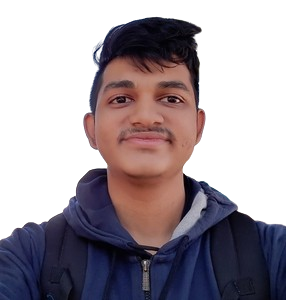
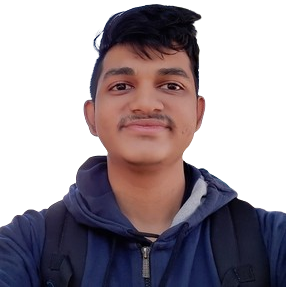
resize and design changes

Changed region(s): [[0.0, 0.0, 1.0, 0.9199], [0.951, 0.7805, 0.979, 0.8084]]

diff --git a/src/components/contact/Contact.jsx b/src/components/contact/Contact.jsx
@@ -86,37 +86,14 @@ const Contact = () => {
           whileInView={{ opacity: 0 }}
           transition={{ delay: 3, duration: 1 }}
         >
-          <svg width="450px" height="450px" viewBox="0 0 32.666 32.666">
-            <motion.path
-              strokeWidth={0.3}
-              fill="none"
-              initial={{ pathLength: 0 }}
-              animate={ isInView && { pathLength: 1 }}
-              transition={{ duration: 3 }}
-              d="M28.189,16.504h-1.666c0-5.437-4.422-9.858-9.856-9.858l-0.001-1.664C23.021,4.979,28.189,10.149,28.189,16.504z
-            M16.666,7.856L16.665,9.52c3.853,0,6.983,3.133,6.981,6.983l1.666-0.001C25.312,11.735,21.436,7.856,16.666,7.856z M16.333,0
-            C7.326,0,0,7.326,0,16.334c0,9.006,7.326,16.332,16.333,16.332c0.557,0,1.007-0.45,1.007-1.006c0-0.559-0.45-1.01-1.007-1.01
-            c-7.896,0-14.318-6.424-14.318-14.316c0-7.896,6.422-14.319,14.318-14.319c7.896,0,14.317,6.424,14.317,14.319
-            c0,3.299-1.756,6.568-4.269,7.954c-0.913,0.502-1.903,0.751-2.959,0.761c0.634-0.377,1.183-0.887,1.591-1.529
-            c0.08-0.121,0.186-0.228,0.238-0.359c0.328-0.789,0.357-1.684,0.555-2.518c0.243-1.064-4.658-3.143-5.084-1.814
-            c-0.154,0.492-0.39,2.048-0.699,2.458c-0.275,0.366-0.953,0.192-1.377-0.168c-1.117-0.952-2.364-2.351-3.458-3.457l0.002-0.001
-            c-0.028-0.029-0.062-0.061-0.092-0.092c-0.031-0.029-0.062-0.062-0.093-0.092v0.002c-1.106-1.096-2.506-2.34-3.457-3.459
-            c-0.36-0.424-0.534-1.102-0.168-1.377c0.41-0.311,1.966-0.543,2.458-0.699c1.326-0.424-0.75-5.328-1.816-5.084
-            c-0.832,0.195-1.727,0.227-2.516,0.553c-0.134,0.057-0.238,0.16-0.359,0.24c-2.799,1.774-3.16,6.082-0.428,9.292
-            c1.041,1.228,2.127,2.416,3.245,3.576l-0.006,0.004c0.031,0.031,0.063,0.06,0.095,0.09c0.03,0.031,0.059,0.062,0.088,0.095
-            l0.006-0.006c1.16,1.118,2.535,2.765,4.769,4.255c4.703,3.141,8.312,2.264,10.438,1.098c3.67-2.021,5.312-6.338,5.312-9.719
-            C32.666,7.326,25.339,0,16.333,0z"
-            />
-          </svg>
+          
         </motion.div>
 
 				
-        {success?"":<motion.form
+        {success?"":<form
           ref = {formRef}
           onSubmit={sendEmail}
-          initial={{ opacity: 0 }}
-          whileInView={{ opacity: 1 }}
-          transition={{ delay: 4, duration: 1 }}
+          
         >
           <input type="text" required placeholder="Name" name="name"/>
           <input type="email" required placeholder="Email" name="email"/>
@@ -124,7 +101,7 @@ const Contact = () => {
           <button type = "submit">Submit</button>
           
           {success}
-        </motion.form>}
+        </form>}
 
       </div>
     </motion.div>

diff --git a/src/components/hero/hero.scss b/src/components/hero/hero.scss
@@ -50,7 +50,7 @@
       flex-direction: column;
       justify-content: center;
       gap: 40px;
-			margin-top: 50px;
+			margin-top: 0px;
 
 			.khush-name{
 				z-index: 100000;
@@ -137,8 +137,8 @@
     position: absolute;
 		top: 0;
     right: 0;
-		z-index:0;
-		margin-right:150px;
+		z-index:0; 
+		margin-right:250px;
 		margin-bottom:150px;
 
 		
@@ -153,14 +153,16 @@
     img {
 			
       width: 100%;
-      height: 100%;
+      height: 80%;
       object-fit: cover;
+			border-radius:10%;
     }
 
 		
   }
 
   .slidingTextContainer {
+		display:none;
     position: absolute;
     font-size: 30vh;
     bottom: 0px;
@@ -170,6 +172,7 @@
     font-weight: bold;
 
     @include mobile{
+			display:none;
       top:28vh;
       font-size: 30vh;
     }

diff --git a/src/components/sidebar/sidebar.scss b/src/components/sidebar/sidebar.scss
@@ -48,7 +48,7 @@
   }
 
   button{
-    z-index:1000001;
+    z-index:10000010;
     position: fixed;
     width: 50px;
     height: 50px;
